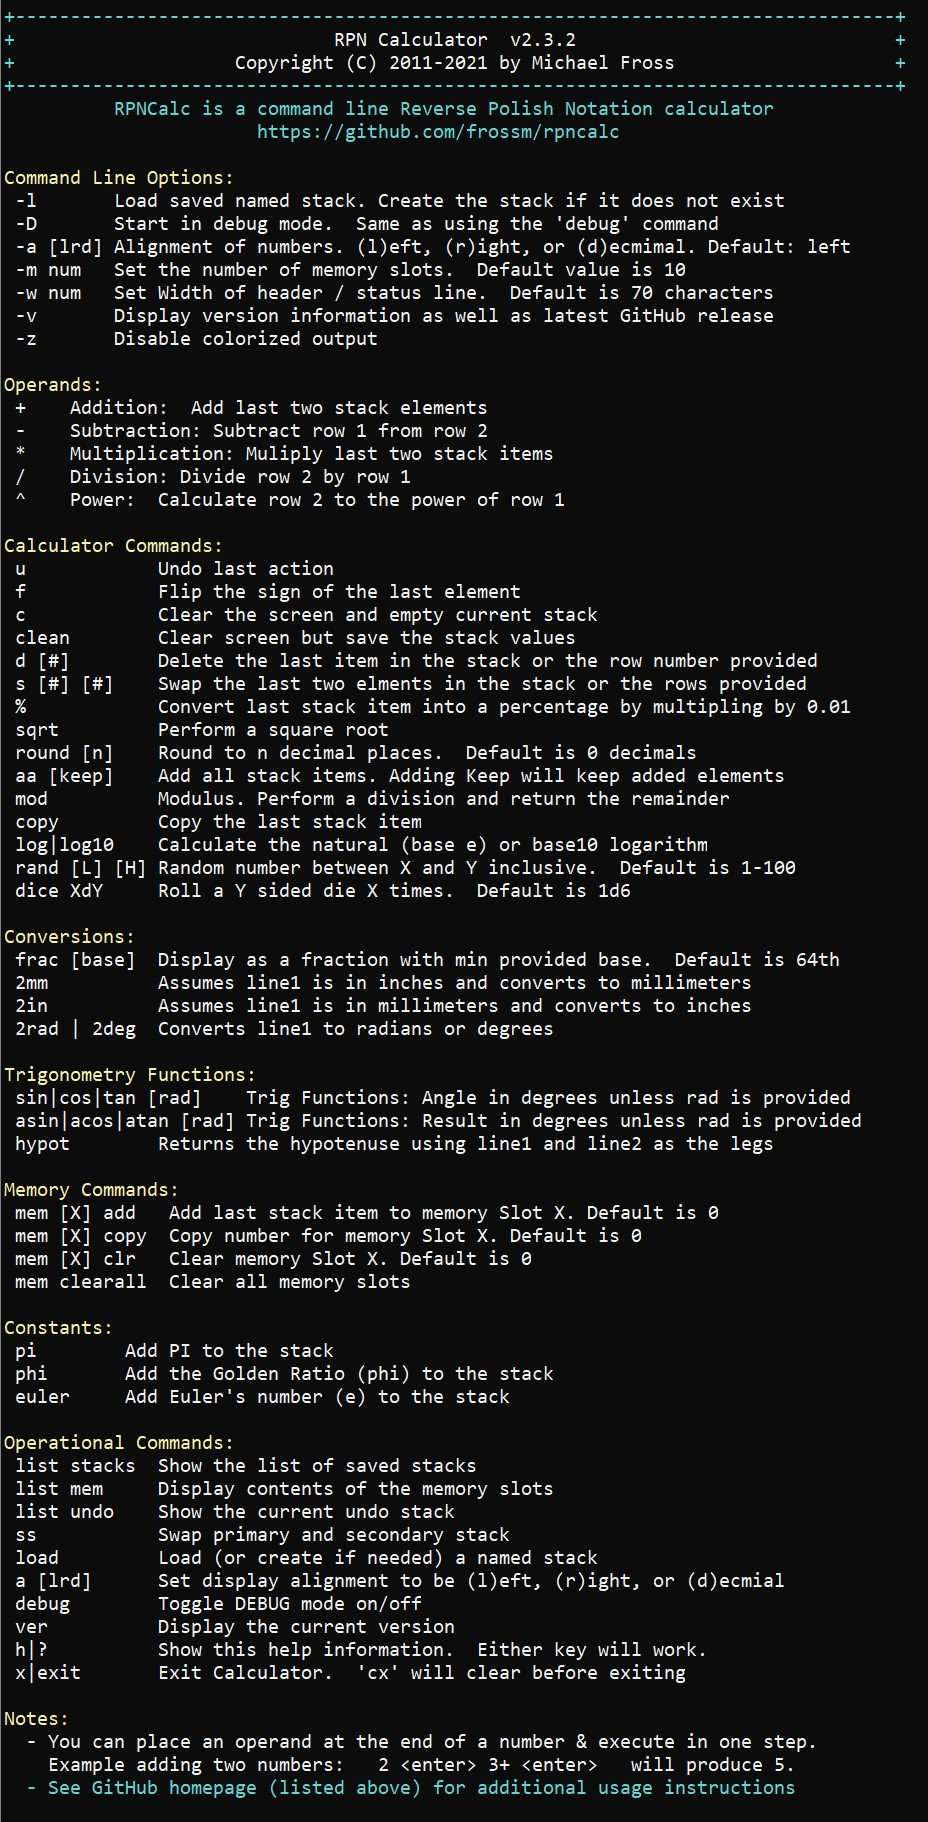
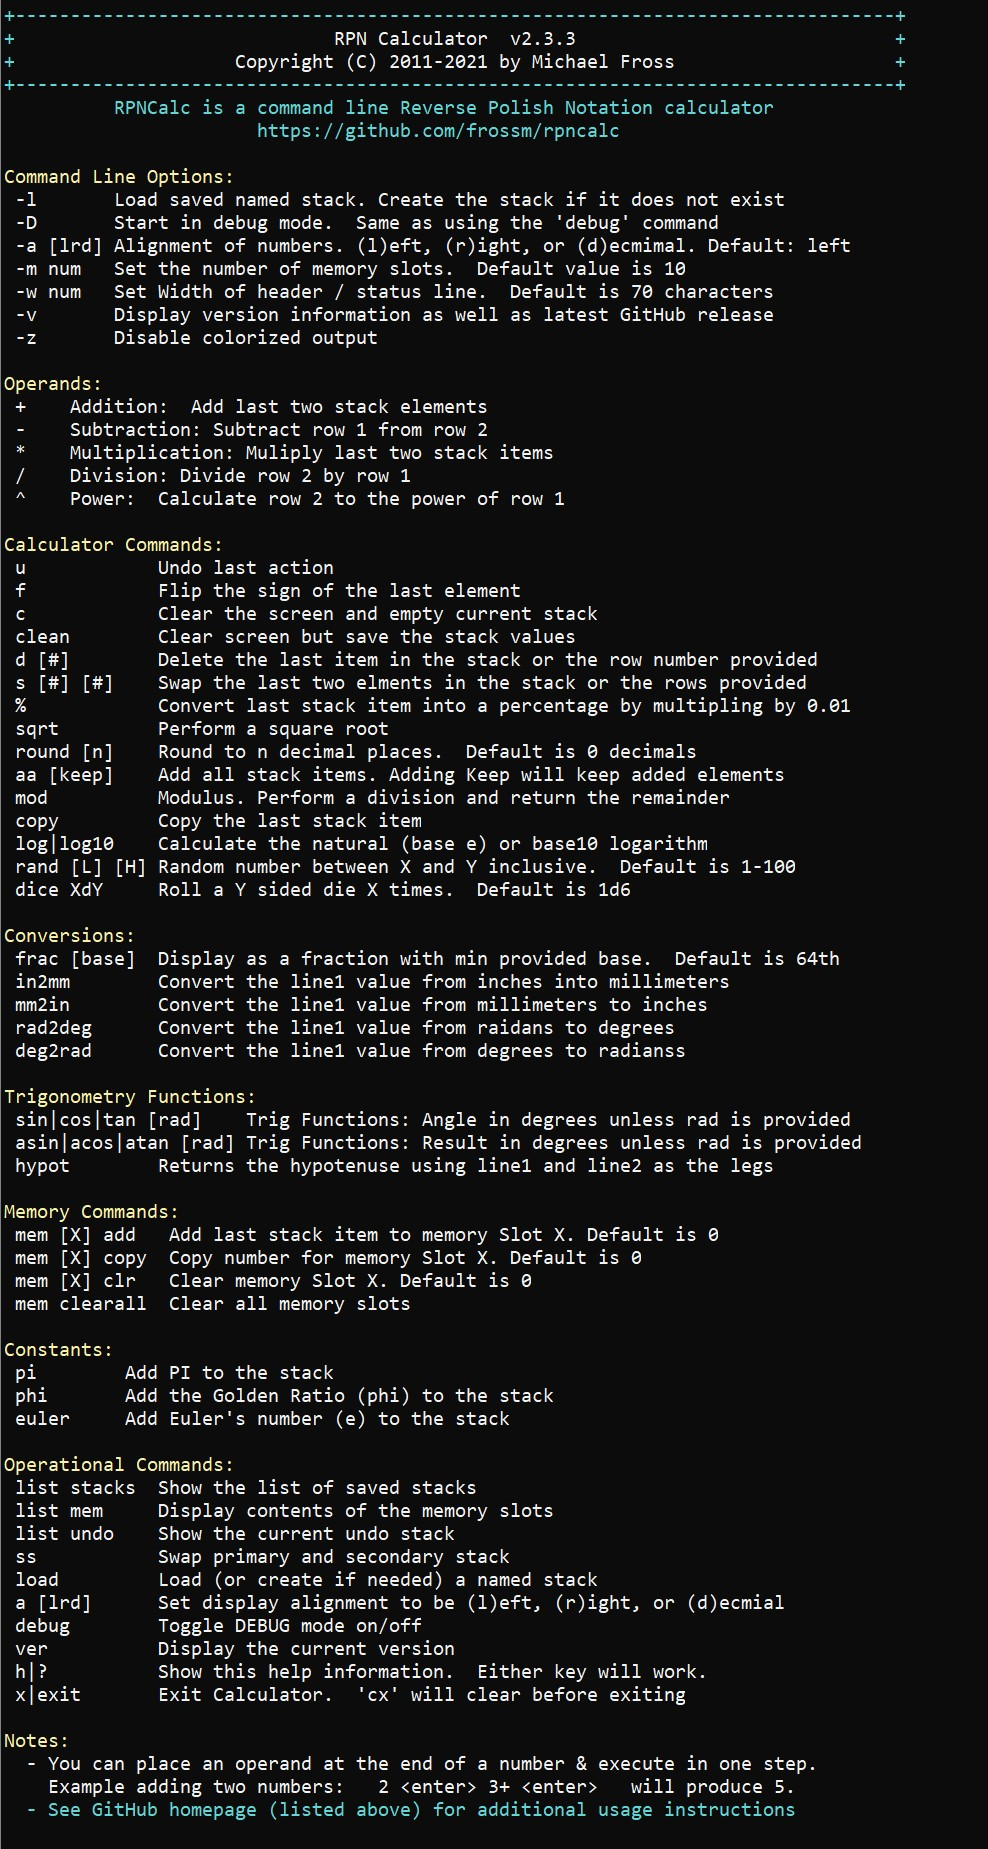
Updated the convert command names

Changed region(s): [[0.0, 0.0, 0.9062, 0.9835], [0.0, 0.0, 0.0312, 0.0615], [0.875, 0.5225, 0.9062, 0.5532]]

diff --git a/src/main/java/org/fross/rpncalc/Help.java b/src/main/java/org/fross/rpncalc/Help.java
@@ -86,9 +86,10 @@ public class Help {
 
 		Output.printColorln(Ansi.Color.YELLOW, "\nConversions:");
 		Output.printColorln(Ansi.Color.WHITE, " frac [base]  Display as a fraction with min provided base.  Default is 64th");
-		Output.printColorln(Ansi.Color.WHITE, " 2mm          Assumes line1 is in inches and converts to millimeters");
-		Output.printColorln(Ansi.Color.WHITE, " 2in          Assumes line1 is in millimeters and converts to inches");
-		Output.printColorln(Ansi.Color.WHITE, " 2rad | 2deg  Converts line1 to radians or degrees");
+		Output.printColorln(Ansi.Color.WHITE, " in2mm        Convert the line1 value from inches into millimeters");
+		Output.printColorln(Ansi.Color.WHITE, " mm2in        Convert the line1 value from millimeters to inches");
+		Output.printColorln(Ansi.Color.WHITE, " rad2deg      Convert the line1 value from raidans to degrees");
+		Output.printColorln(Ansi.Color.WHITE, " deg2rad      Convert the line1 value from degrees to radianss");
 
 		Output.printColorln(Ansi.Color.YELLOW, "\nTrigonometry Functions:");
 		Output.printColorln(Ansi.Color.WHITE, " sin|cos|tan [rad]    Trig Functions: Angle in degrees unless rad is provided");

diff --git a/src/main/java/org/fross/rpncalc/Main.java b/src/main/java/org/fross/rpncalc/Main.java
@@ -383,29 +383,27 @@ public class Main {
 				StackOps.cmdFraction(cmdInputParam);
 				break;
 
-			// Convert to Millimeters
+			// Convert inches to millimeters
+			case "in2mm":
 			case "2mm":
-			case "mm":
 				StackOps.cmdConvert2MM();
 				break;
 
-			// Convert to Inches
+			// Convert millimeters to inches
+			case "mm2in":
 			case "2in":
-			case "in":
 				StackOps.cmdConvert2IN();
 				break;
 
 			// Convert to Radians
+			case "deg2rad":
 			case "2rad":
-			case "rad":
-			case "radian":
 				StackOps.cmdRadian();
 				break;
 
 			// Convert to Degrees
+			case "rad2deg":
 			case "2deg":
-			case "deg":
-			case "degree":
 				StackOps.cmdDegree();
 				break;
 

diff --git a/README.md b/README.md
@@ -148,10 +148,10 @@ When the second enter is pressed,  2 will be removed from the stack.  Added toge
 |Command|Description|
 |-------|-----------|
 |frac [base]|Display a fractional estimate of the last stack item with the maximum granularity of 1/base.  Default is 1/64th.  Only decimals are stored on the stack but this command will display the results.  For example, if you had **1.1234** on the stack, `frac` would show you `1.1234 is approximately 1 1/8`  It would have used a base of 64 (which means maximum granularity would be 1/64.  However, it auto reduces which is why you get the `1 1/8`. if you entered frac 2 (which means 1/2 is maximum granularity, you get `1.1234 is approximately 1 0/1` or just one.  Need to fix that display oddity|
-|2mm|Assumes line1 is in inches and converts to millimeters|
-|2in|Assumes line1 is in millimeters and converts to inches|
-|2rad|Convert line1 into [radians](https://en.wikipedia.org/wiki/Radian). Assume line1 contains a value in degrees.  `radian` or `rad` would also work|
-|2deg|Convert line1 into degrees.  Assumes line1 contains radians.  `degree` or `deg` would also work|
+|in2mm|Converts the value in line1 from inches to millimeters.  `2mm` command will also work|
+|mm2in|Converts the value in line1 from millimeters to inches.  `2in` command will also work||
+|deg2rad|Convert line1 from degrees into [radians](https://en.wikipedia.org/wiki/Radian). `2rad` would also work|
+|rad2deg|Convert line1 from radians into degrees.  `2deg` would also work|
 
 ## Trigonometry Functions
 |Command|Description|
